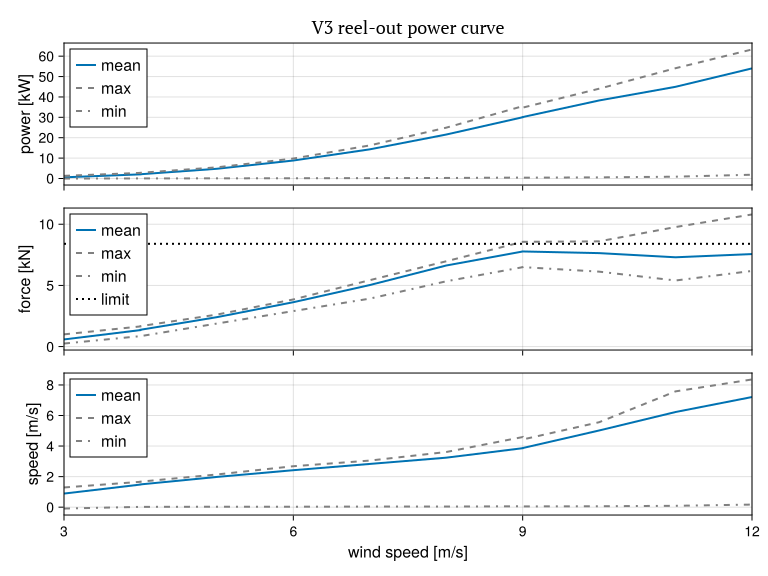
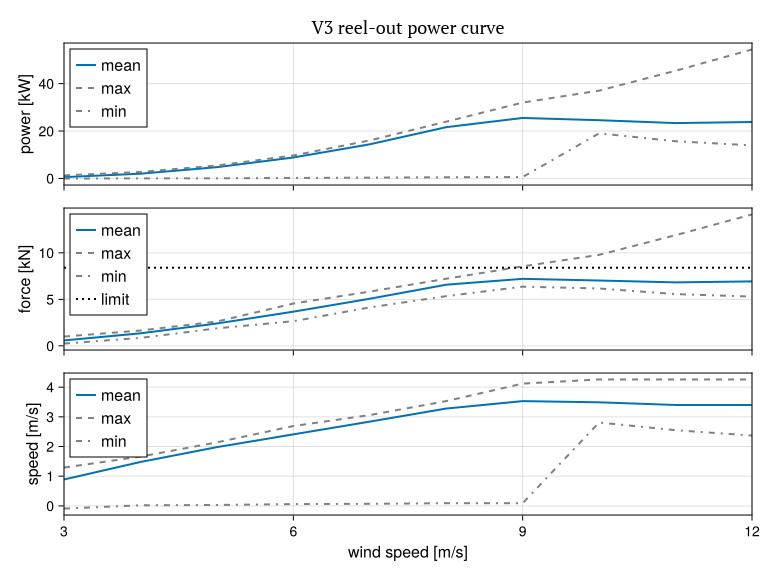
Works fine now with v_ro_max 30.8 m/s

diff --git a/notebooks/overview.md b/notebooks/overview.md
@@ -2,13 +2,11 @@
 | :---: | :---: | :---: | :---: | :---: | :---: | :---: | :---: | :---: | :---: | :---: | :---: | :---: | :---: | :---: | :---: | :---: | :---: |
 | 2026-08-24 | 11:55:12 | 3.0 | 1.44 | 221.9 | 4.57 | 6 | 5 | 563 | -36 | 1290 | 249 | 585 | 1000 | -0.09 | 0.89 | 1.29 | 0.294 |
 | 2026-08-24 | 11:50:17 | 4.0 | 1.02 | 116.4 | 3.94 | 6 | 6 | 2020 | 27 | 2738 | 854 | 1350 | 1649 | 0.02 | 1.48 | 1.66 | 0.285 |
-| 2026-08-25 | 19:49:37 | 4.0 | 1.05 | 228.7 | 3.75 | 6 | 6 | 2075 | 29 | 2787 | 853 | 1375 | 1670 | 0.02 | 1.49 | 1.67 | 0.283 |
 | 2026-08-24 | 12:04:05 | 5.0 | 1.01 | 98.6 | 3.83 | 6 | 6 | 4763 | 64 | 5465 | 1883 | 2406 | 2615 | 0.03 | 1.98 | 2.14 | 0.276 |
-| 2026-08-24 | 11:42:33 | 6.0 | 1.0 | 99.1 | 3.63 | 6 | 6 | 8814 | 112 | 9777 | 2902 | 3628 | 3854 | 0.03 | 2.42 | 2.68 | 0.273 |
-| 2026-08-24 | 12:07:26 | 7.0 | 0.98 | 81.9 | 3.67 | 5 | 5 | 14292 | 177 | 16220 | 3920 | 5031 | 5428 | 0.04 | 2.83 | 3.05 | 0.271 |
-| 2026-08-24 | 14:25:09 | 8.0 | 0.98 | 217.1 | 3.25 | 5 | 5 | 21556 | 248 | 24928 | 5337 | 6627 | 6972 | 0.04 | 3.24 | 3.61 | 0.27 |
-| 2026-08-26 | 10:12:51 | 9.0 | 0.96 | 199.8 | 3.22 | 5 | 5 | 30137 | 385 | 34753 | 6495 | 7775 | 8563 | 0.05 | 3.87 | 4.43 | 0.27 |
-| 2026-08-26 | 09:14:49 | 9.0 | 0.96 | 171.0 | 2.67 | 5 | 4 | 30037 | 446 | 35457 | 6490 | 7772 | 8563 | 0.06 | 3.86 | 4.59 | 0.27 |
-| 2026-08-26 | 10:19:25 | 10.0 | 0.96 | 158.7 | 3.44 | 4 | 4 | 38274 | 542 | 44043 | 6125 | 7639 | 8601 | 0.06 | 5.02 | 5.56 | 0.271 |
-| 2026-08-26 | 11:05:31 | 11.0 | 0.94 | 62.3 | 4.27 | 3 | 2 | 44975 | 880 | 54099 | 5402 | 7299 | 9771 | 0.09 | 6.23 | 7.58 | 0.272 |
-| 2026-08-26 | 11:43:25 | 12.0 | 0.93 | 45.2 | 3.72 | 2 | 2 | 54016 | 1844 | 63298 | 6183 | 7561 | 10799 | 0.17 | 7.21 | 8.36 | 0.273 |
+| 2026-08-26 | 12:20:34 | 6.0 | 1.0 | 87.5 | 3.6 | 6 | 6 | 8851 | 207 | 9689 | 2653 | 3676 | 4550 | 0.06 | 2.41 | 2.69 | 0.272 |
+| 2026-08-26 | 12:23:48 | 7.0 | 0.99 | 123.1 | 3.47 | 6 | 6 | 14412 | 345 | 16043 | 4132 | 5068 | 5833 | 0.07 | 2.84 | 3.06 | 0.27 |
+| 2026-08-26 | 12:25:48 | 8.0 | 0.98 | 75.8 | 3.52 | 6 | 6 | 21637 | 506 | 23961 | 5343 | 6576 | 7215 | 0.09 | 3.28 | 3.53 | 0.27 |
+| 2026-08-26 | 12:36:12 | 9.0 | 0.89 | 50.8 | 4.49 | 4 | 4 | 25515 | 603 | 32009 | 6363 | 7206 | 8543 | 0.09 | 3.53 | 4.12 | 0.281 |
+| 2026-08-26 | 12:49:37 | 10.0 | 0.86 | 188.0 | 3.7 | 4 | 4 | 24573 | 19030 | 37038 | 6171 | 7024 | 9785 | 2.81 | 3.49 | 4.26 | 0.304 |
+| 2026-08-26 | 12:40:40 | 11.0 | 0.87 | 36.0 | 5.38 | 2 | 2 | 23353 | 15700 | 45424 | 5565 | 6824 | 11897 | 2.55 | 3.4 | 4.26 | 0.3 |
+| 2026-08-26 | 12:42:02 | 12.0 | 0.93 | 34.5 | 4.99 | 2 | 2 | 23810 | 13947 | 54407 | 5297 | 6929 | 14126 | 2.37 | 3.4 | 4.26 | 0.324 |
